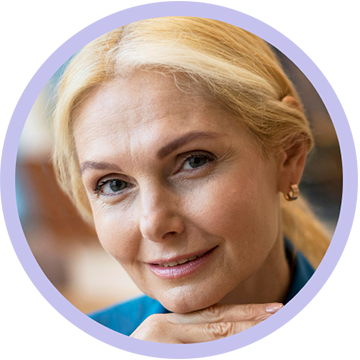
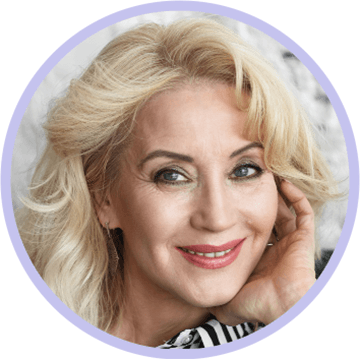
modify2

diff --git a/index.html b/index.html
@@ -181,7 +181,7 @@ a{color:#00807d;}
     <td class="stack" valign="middle">
       <table role="presentation" width="100%" cellpadding="0" cellspacing="0" border="0"><tr>
           <td width="54" valign="middle" style="width:54px;padding:0 12px 12px 0;"><img src="images/ikon-testsuly.png" width="44" height="44" alt="" style="display:block;width:44px;height:44px;border:0;outline:none;text-decoration:none;"></td>
-          <td valign="middle" style="padding:0 0 12px;"><div style="font-family:'BoehringerForwardHead',Arial,Helvetica,sans-serif;font-size:15px;line-height:20px;font-weight:bold;color:#08312a;">Társbetegség</div><div style="font-family:'BoehringerForwardHead',Arial,Helvetica,sans-serif;font-size:14px;line-height:19px;color:#12241f;">obesitas</div></td>
+          <td valign="middle" style="padding:0 0 12px;"><div style="font-family:'BoehringerForwardHead',Arial,Helvetica,sans-serif;font-size:15px;line-height:20px;font-weight:bold;color:#08312a;">Társbetegség</div><div style="font-family:'BoehringerForwardHead',Arial,Helvetica,sans-serif;font-size:14px;line-height:19px;color:#12241f;">obezitás</div></td>
         </tr><tr>
           <td width="54" valign="middle" style="width:54px;padding:0 12px 12px 0;"><img src="images/clipboard_pil.png" width="44" height="44" alt="" style="display:block;width:44px;height:44px;border:0;outline:none;text-decoration:none;"></td>
           <td valign="middle" style="padding:0 0 12px;"><div style="font-family:'BoehringerForwardHead',Arial,Helvetica,sans-serif;font-size:15px;line-height:20px;font-weight:bold;color:#08312a;">Terápia</div><div style="font-family:'BoehringerForwardHead',Arial,Helvetica,sans-serif;font-size:14px;line-height:19px;color:#12241f;">empagliflozin-kezelés indul</div></td>
@@ -316,7 +316,7 @@ a{color:#00807d;}
       <table role="presentation" cellpadding="0" cellspacing="0" border="0"><tr>
         <td width="52" valign="top" style="width:52px;padding-right:12px;"><img src="images/ikon-figyelem.png" width="46" height="46" alt="" style="display:block;width:46px;height:46px;border:0;outline:none;text-decoration:none;"></td>
         <td valign="middle"><div style="font-family:Arial,Helvetica,sans-serif;font-size:11px;line-height:14px;font-weight:bold;letter-spacing:.06em;color:#a03a24;">FELMERÜLHET: EUGLYKAEMIÁS KETOACIDOSIS</div>
-        <div style="font-family:'BoehringerForwardHead',Arial,Helvetica,sans-serif;font-size:14px;line-height:20px;color:#12241f;">Ebben a helyzetben euglykaemiás ketoacidosis merülhet fel, ami megtévesztő lehet, ugyanis a vércukorszint normális vagy csak mérsékelten emelkedett.<sup style="font-size:10px;line-height:0;vertical-align:super;">13,14</sup></div></td>
+        <div style="font-family:'BoehringerForwardHead',Arial,Helvetica,sans-serif;font-size:14px;line-height:20px;color:#12241f;">Ebben a helyzetben gondolni kell az euglykémiás ketoacidózisra. Különös figyelmet igényel, ugyanis ebben az állapotban a vérukorszint normális vagy csak mérsékelten emelkedett.<sup style="font-size:10px;line-height:0;vertical-align:super;">13,14</sup></div></td>
       </tr></table>
     </td>
   </tr></table>
